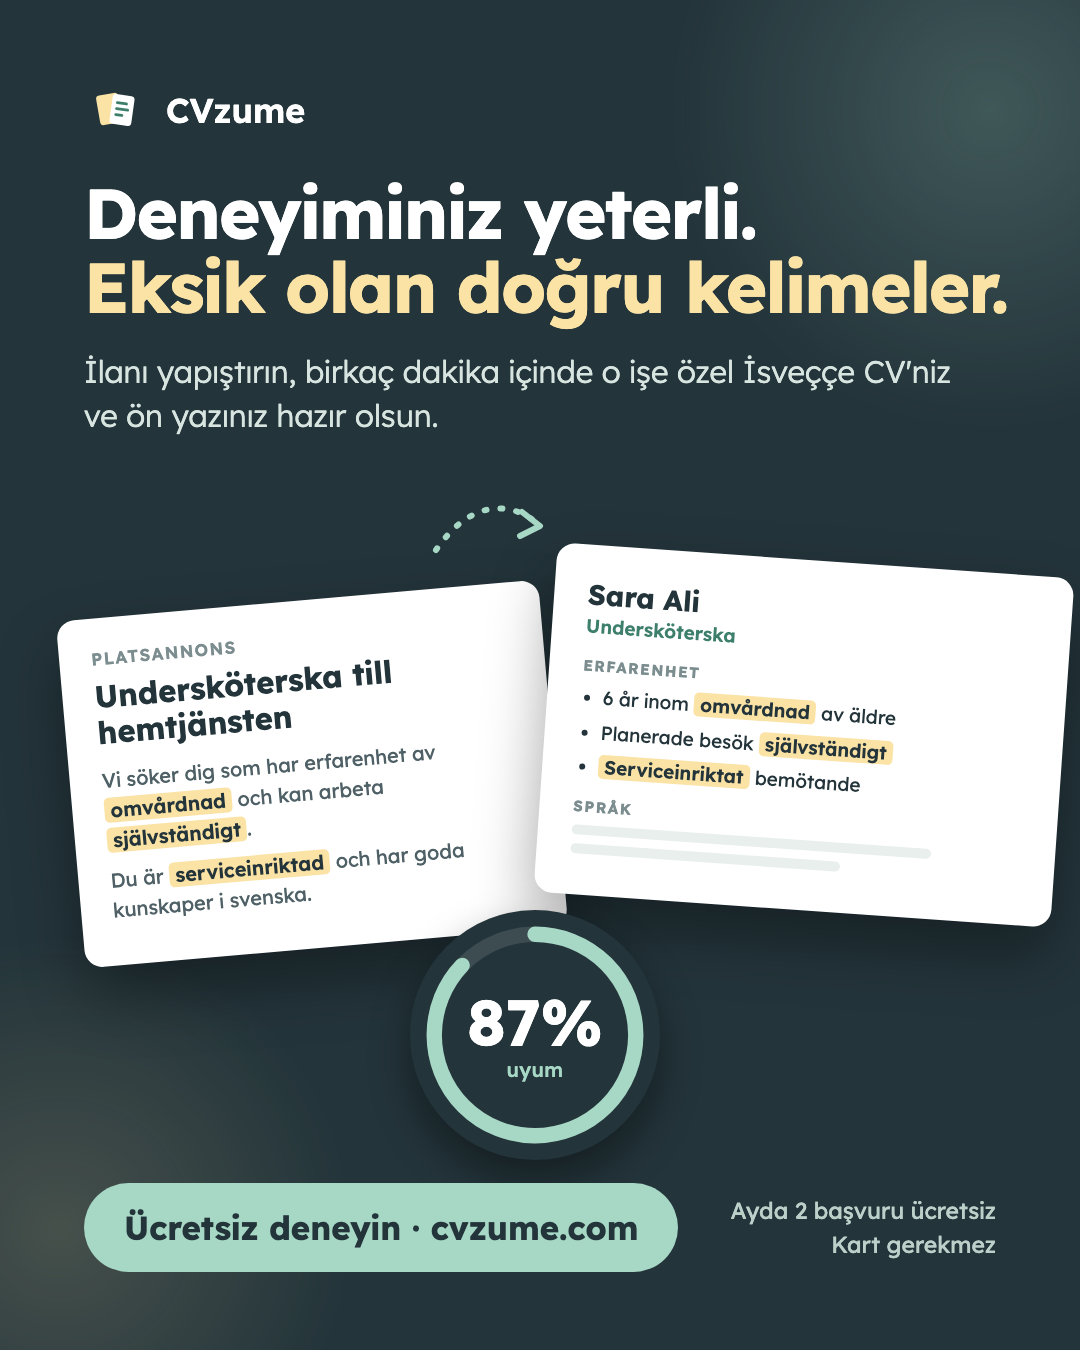
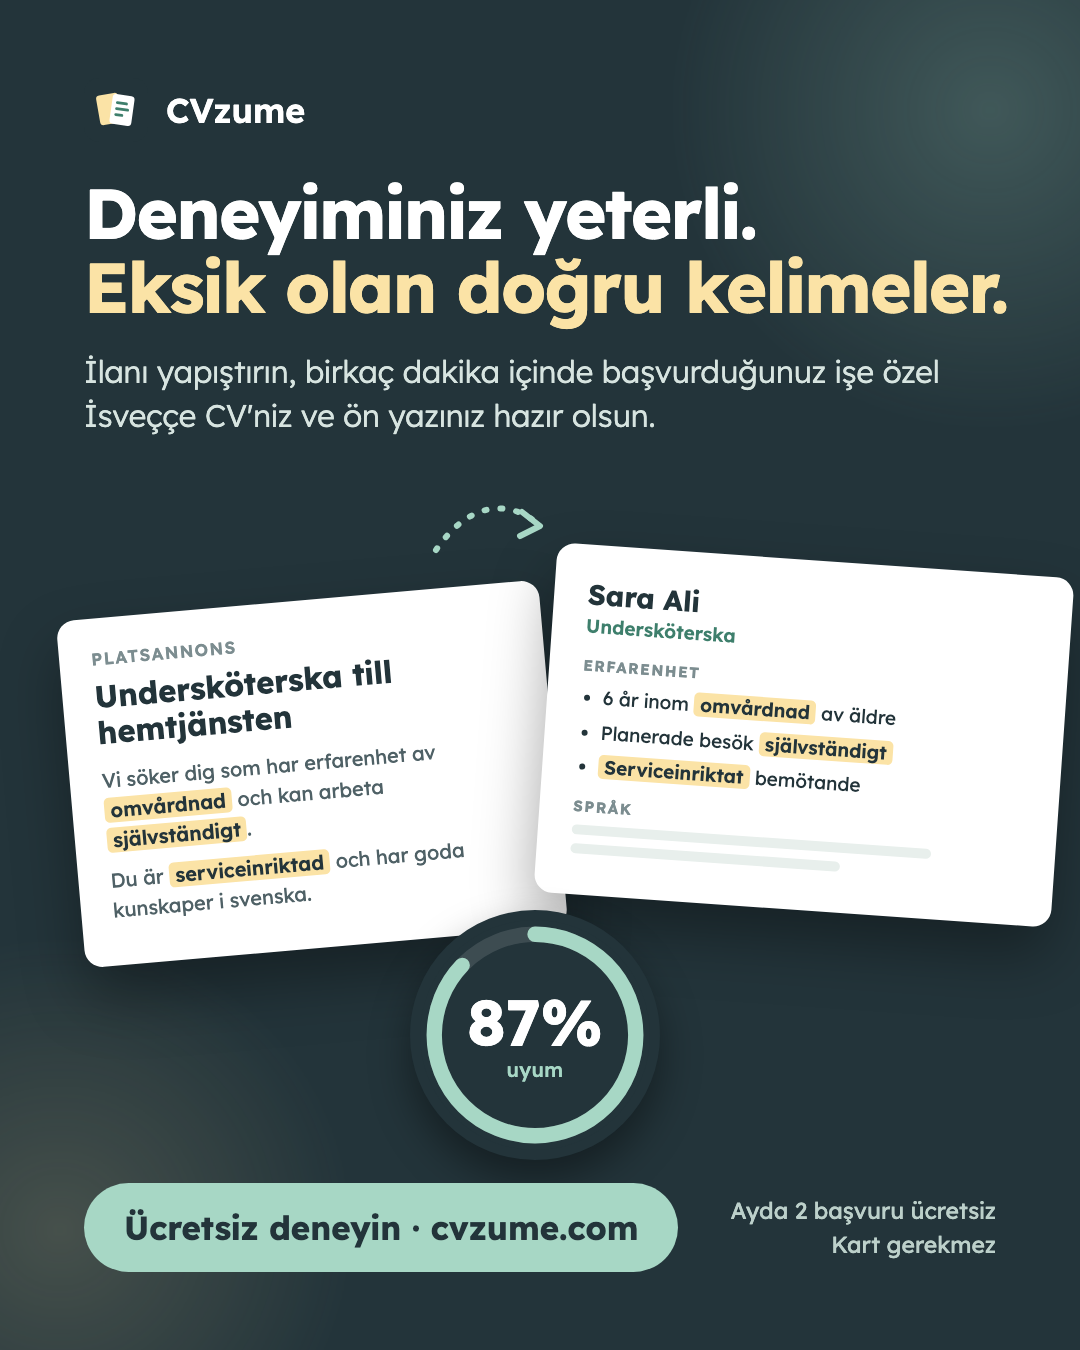
Grup gönderisi C: uyum testi görseli ve metni

Changed region(s): [[0.0611, 0.28, 0.4278, 0.3422], [0.55, 0.2489, 0.8861, 0.3111], [0.4583, 0.28, 0.5194, 0.3111]]

diff --git a/docs/sosyal-medya-gonderiler.md b/docs/sosyal-medya-gonderiler.md
@@ -149,11 +149,13 @@ Bu sorunu çözmek için CVzume'yi geliştirdim. Nasıl çalışıyor?
 ✔ Başvurmak istediğiniz ilanı kopyalayıp yapıştırıyorsunuz (örneğin Platsbanken'den)
 ✔ CV'nizi yüklüyorsunuz ya da birkaç kısa soruyu cevaplıyorsunuz
 ✔ İlana ne kadar uygun olduğunuzu ve neyin eksik kaldığını hemen görüyorsunuz
-✔ O ilana özel hazırlanmış, düzgün İsveççe bir CV ve ön yazı alıyorsunuz (PDF ya da Word)
+✔ Başvurduğunuz ilana özel hazırlanmış, düzgün İsveççe bir CV ve ön yazı alıyorsunuz (PDF ya da Word)
 
 CVzume sizin adınıza bilgi uydurmaz; her şey sizin gerçek deneyiminize dayanır.
 
-Ücretsiz deneyebilirsiniz: ayda 2 başvuru hakkı var, kredi kartı gerekmiyor 👉 https://www.cvzume.com/tr?utm_source=facebook&utm_medium=group&utm_campaign=grupp-tr-a
+Hemen deneyin, kayıt bile gerekmiyor: bir iş ilanını yapıştırın, ilana ne kadar uygun olduğunuzu görün 👉 https://www.cvzume.com/tr?utm_source=facebook&utm_medium=group&utm_campaign=grupp-tr-a#testa
+
+Beğenirseniz Google hesabınızla tek tıkla kayıt olabilirsiniz. Ayda 2 başvuru ücretsiz, kredi kartı gerekmiyor.
 
 Sorularınızı yorumlara yazabilirsiniz, hepsine cevap vereceğim.
 ```
@@ -169,4 +171,20 @@ Bunu her başvuruda tek tek yapmak zaman alıyor, hele İsveççe ana diliniz de
 Ücretsiz başlayabilirsiniz, kredi kartı gerekmiyor 👉 https://www.cvzume.com/tr?utm_source=facebook&utm_medium=group&utm_campaign=grupp-tr-b
 
 İş aramanızda başarılar! 🍀
+```
+
+## C — uyum testi (2026-11-08)
+Görsel: `public/brand/social/grupp/uyum-tr.png`
+```
+Platsbanken'de bir ilan görüp "Bu işe başvursam alırlar mı?" diye düşündüğünüz ve sonra vazgeçtiğiniz oldu mu?
+
+Artık tahmin etmenize gerek yok. İlanı CVzume'ye yapıştırın, kendinizle ilgili birkaç cümle yazın. İlana ne kadar uygun olduğunuzu ve neyin eksik kaldığını hemen görün. Bunun için kayıt olmanız bile gerekmiyor.
+
+İlana uygunsanız, aynı yerden başvurduğunuz ilana özel İsveççe CV'nizi ve ön yazınızı da hazırlayabilirsiniz. Her şey sizin gerçek deneyiminize dayanır; hiçbir bilgi uydurulmaz.
+
+👉 Hemen deneyin: https://www.cvzume.com/tr?utm_source=facebook&utm_medium=group&utm_campaign=grupp-tr-c#testa
+
+Ayda 2 başvuru ücretsiz, kredi kartı gerekmiyor. Google hesabınızla tek tıkla kayıt olabilirsiniz.
+
+Sorularınızı yorumlara yazabilirsiniz, hepsine cevap vereceğim.
 ```
